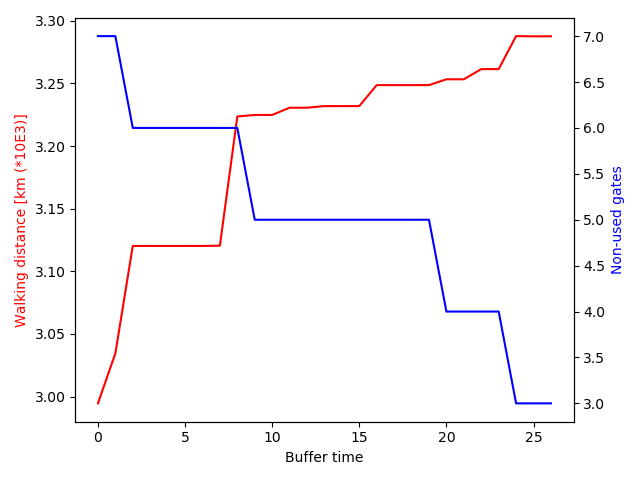
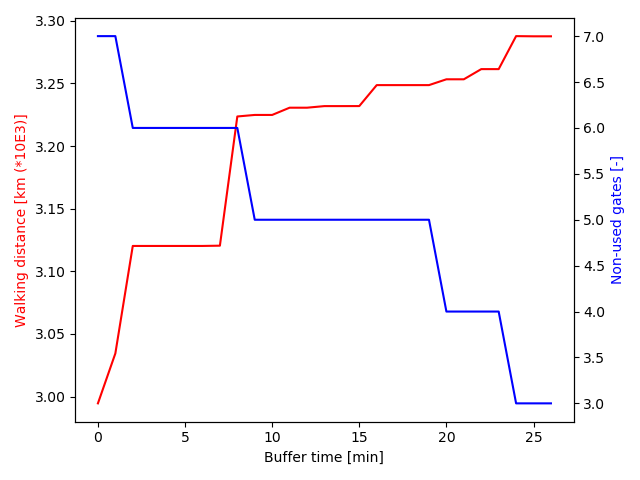
final final update

Changed region(s): [[0.9375, 0.3438, 1.0, 0.5938], [0.4062, 0.9375, 0.5938, 0.9688]]

diff --git a/Base_Model.py b/Base_Model.py
@@ -310,9 +310,9 @@ ax12 = ax11.twinx()
 ax11.plot(buffer_time, walking_distance_data, 'r-')
 ax12.plot(buffer_time, non_used_gates_data, 'b-')
 
-ax11.set_xlabel('Buffer time')
+ax11.set_xlabel('Buffer time [min]')
 ax11.set_ylabel('Walking distance [km (*10E3)]', color='r')
-ax12.set_ylabel('Non-used gates', color = 'b')
+ax12.set_ylabel('Non-used gates [-]', color = 'b')
 
 # fig2, ax21 = plt.subplots()
 #
